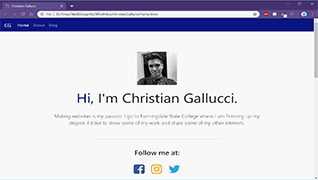
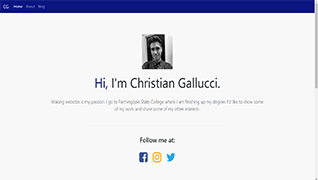
update

diff --git a/index.html b/index.html
@@ -23,11 +23,8 @@
              <li class="nav-item active">
                 <a class="nav-link" href="#">Home <span class="sr-only">(current)</span></a>
              </li>
-             <li class="nav-item">
-                <a class="nav-link" href="#">About</a>
-             </li>
 			   <li class="nav-item">
-                <a class="nav-link" href="#">Blog</a>
+                <a class="nav-link" href="blog.html">Blog</a>
              </li>
           </ul>
        </div>
@@ -69,12 +66,12 @@
     </div>
           <div class="col-md-4">
          <div class="card">
-                <img class="card-img-top" src="images/card-img.png" alt="Card image cap">
+                <img class="card-img-top" src="images/2ndSite.png" alt="Card image cap">
                 <div class="card-body">
-                   <h4 class="card-title">Card title</h4>
-                   <p class="card-text">Some quick example text to build on the card title and make up the bulk of the card's content.</p>
+                   <h4 class="card-title">Football Club of New York</h4>
+                   <p class="card-text">Huntington based soccer academy that teaches kids of all ages how to play the beautiful game.</p>
                    <br><br>
-                   <a href="#" class="btn btn-secondary">Check It Out</a>
+                   <a href="https://christiangallucci.github.io/FCNYSite/" class="btn btn-secondary">Check Out Beta</a>
                 </div>
             </div>
           </div>
@@ -82,10 +79,10 @@
            <div class="card">
                 <img class="card-img-top" src="images/card-img.png" alt="Card image cap">
                 <div class="card-body">
-                   <h4 class="card-title">Card title</h4>
-                   <p class="card-text">Some quick example text to build on the card title and make up the bulk of the card's content.</p>
-                   <br><br>
-                   <a href="#" class="btn btn-secondary">Go There</a>
+                   <h4 class="card-title">Work in Progress</h4>
+                   <p class="card-text"></p>
+                   <br><br><br><br><br><br><br>
+     
                 </div>
             </div>
           </div>
@@ -116,7 +113,6 @@ $(document).ready(function(){
 $(document).ready(function(){
 	$("#blurb").css('visibility','visible').hide().delay(2000).slideDown();       
 })    
-
 $("#greet").each(function() {
   // Some Vars
   var elText,
@@ -133,7 +129,6 @@ $("#greet").each(function() {
   // Change the html of each element to style it
   $(this).html(elText);
 });
-
 	</script>
   </body>
 </html>

diff --git a/blog.html b/blog.html
@@ -1,0 +1,56 @@
+<!DOCTYPE html>
+<html lang="en">
+  <head>
+    <meta charset="utf-8">
+    <meta http-equiv="X-UA-Compatible" content="IE=edge">
+    <meta name="viewport" content="width=device-width, initial-scale=1">
+    <title>Christian Gallucci</title>
+
+    <!-- Bootstrap -->
+	<link rel="stylesheet" href="https://cdnjs.cloudflare.com/ajax/libs/font-awesome/4.7.0/css/font-awesome.min.css">
+    <link href="css/bootstrap-4.0.0.css" rel="stylesheet">
+    <link href="css/style.css" rel="stylesheet" type="text/css">
+  <!--The following script tag downloads a font from the Adobe Edge Web Fonts server for use within the web page. We recommend that you do not modify it.--><script>var __adobewebfontsappname__="dreamweaver"</script><script src="http://use.edgefonts.net/abel:n4:default.js" type="text/javascript"></script>
+</head>
+  <body>
+    <nav class="navbar fixed-top navbar-expand-lg navbar-dark" style="background-color:#0b1582">
+       <a class="navbar-brand" href="#">CG</a>
+       <button class="navbar-toggler" type="button" data-toggle="collapse" data-target="#navbarSupportedContent" aria-controls="navbarSupportedContent" aria-expanded="false" aria-label="Toggle navigation">
+       <span class="navbar-toggler-icon"></span>
+       </button>
+       <div class="collapse navbar-collapse" id="navbarSupportedContent">
+          <ul class="navbar-nav mr-auto">
+             <li class="nav-item">
+                <a class="nav-link" href="#">Home </a>
+             </li>
+			   <li class="nav-item active">
+                <a class="nav-link" href="#">Blog<span class="sr-only">(current)</span></a>
+             </li>
+          </ul>
+       </div>
+    </nav>
+	  
+	<div class ="container" id="first">
+			<h class="display-2">Coming Soon</h>
+	</div>
+	  
+	<div class="container">
+		<h class="display-4">Boca Juniors US Tour:  New Jersey</h>
+		<p class="author">by Christian Gallucci</p>
+	</div>
+	<div class="container">
+       <hr width="50%">
+       <div class="row">
+          <div class="text-center col-lg-6 offset-lg-3">
+             <p>Copyright &copy; 2019 &middot; All Rights Reserved &middot; <a href="#" >Christian Gallucci</a></p>
+          </div>
+       </div>
+   </div>
+    <!-- jQuery (necessary for Bootstrap's JavaScript plugins) --> 
+    <script src="js/jquery-3.2.1.min.js"></script>
+
+    <!-- Include all compiled plugins (below), or include individual files as needed --> 
+    <script src="js/popper.min.js"></script>
+	<script src="js/bootstrap-4.0.0.js"></script>
+  </body>
+</html>

diff --git a/css/style.css b/css/style.css
@@ -34,3 +34,17 @@ body{
 }.card .card-body .btn.btn-primary {
 
 }
+#first {
+	text-align: center;
+	margin-top: 11%;
+	margin-bottom: 9%;
+}
+.card .card-body .btn.btn-secondary {
+	background-color: #0B1582;
+}
+.container .row .col-md-4 {
+	text-align: center;
+}
+.container .author {
+	color: #7C9898;
+}
